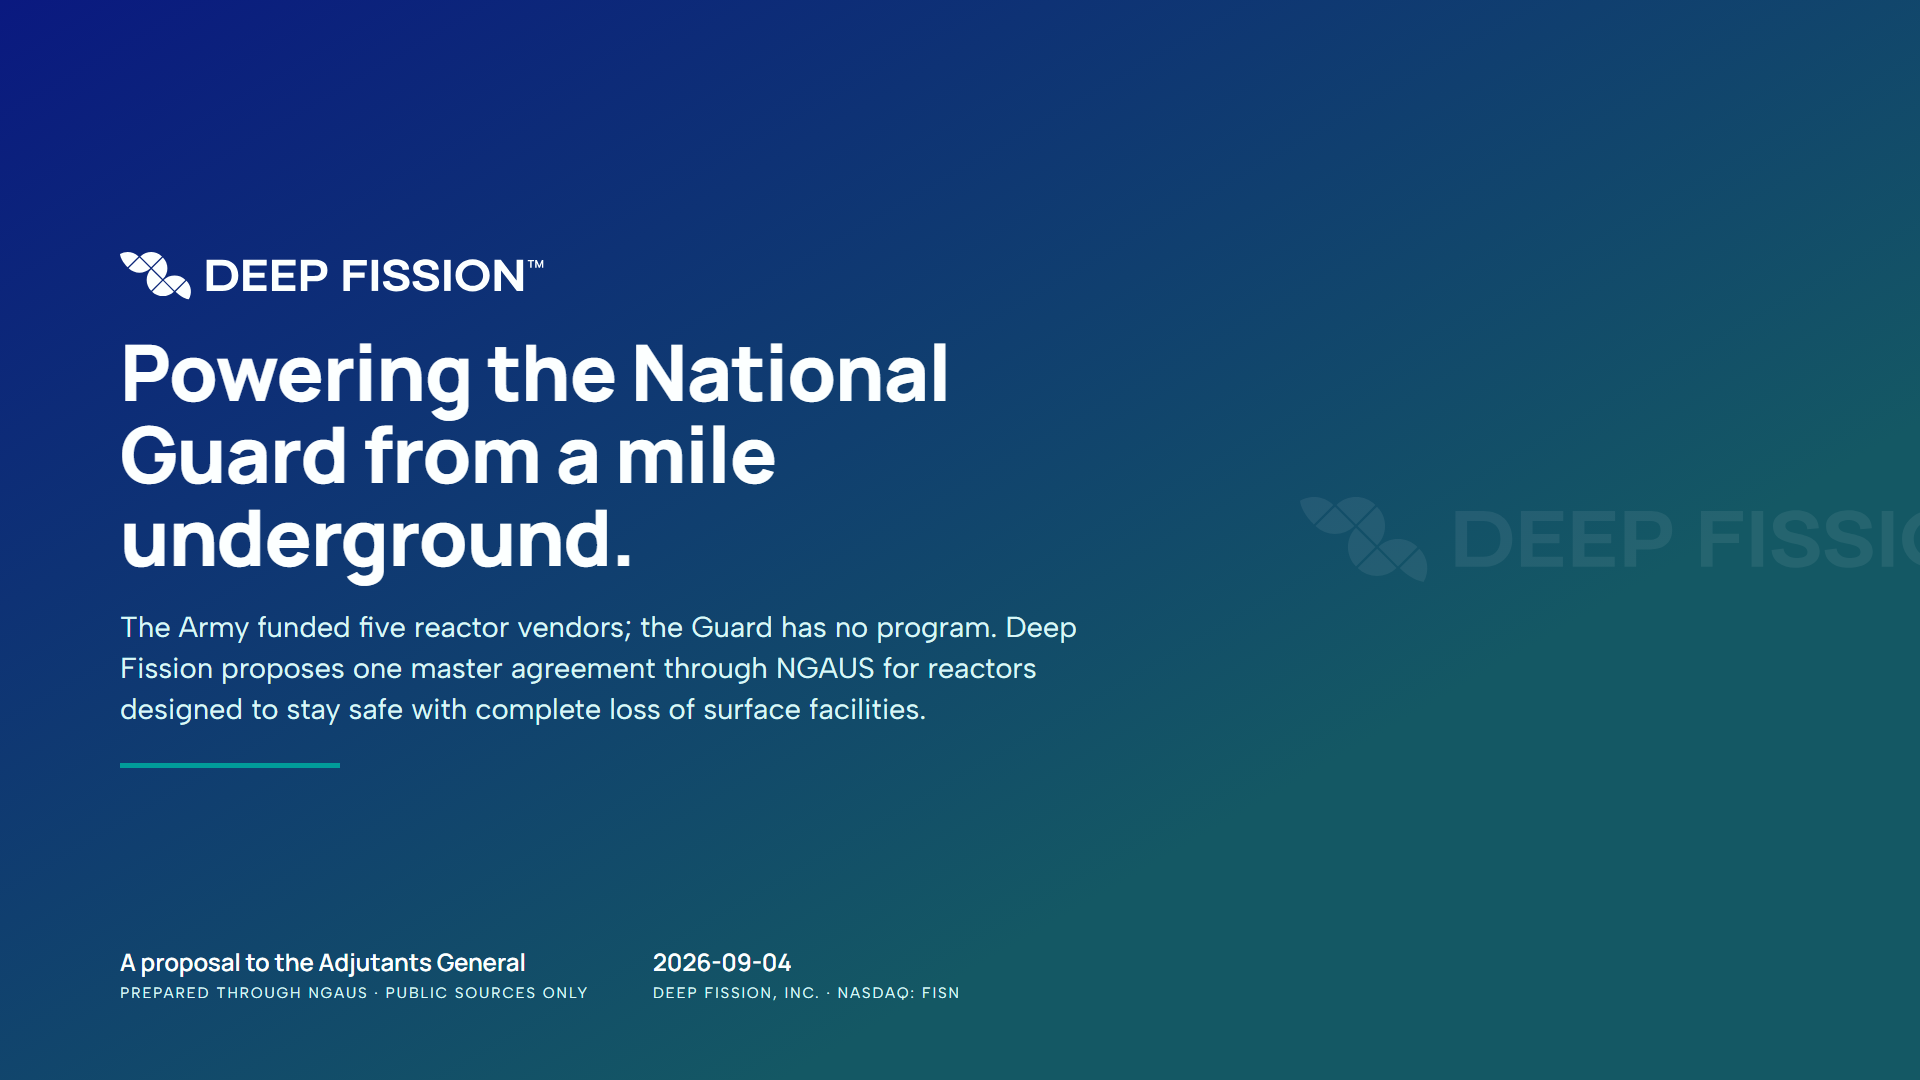
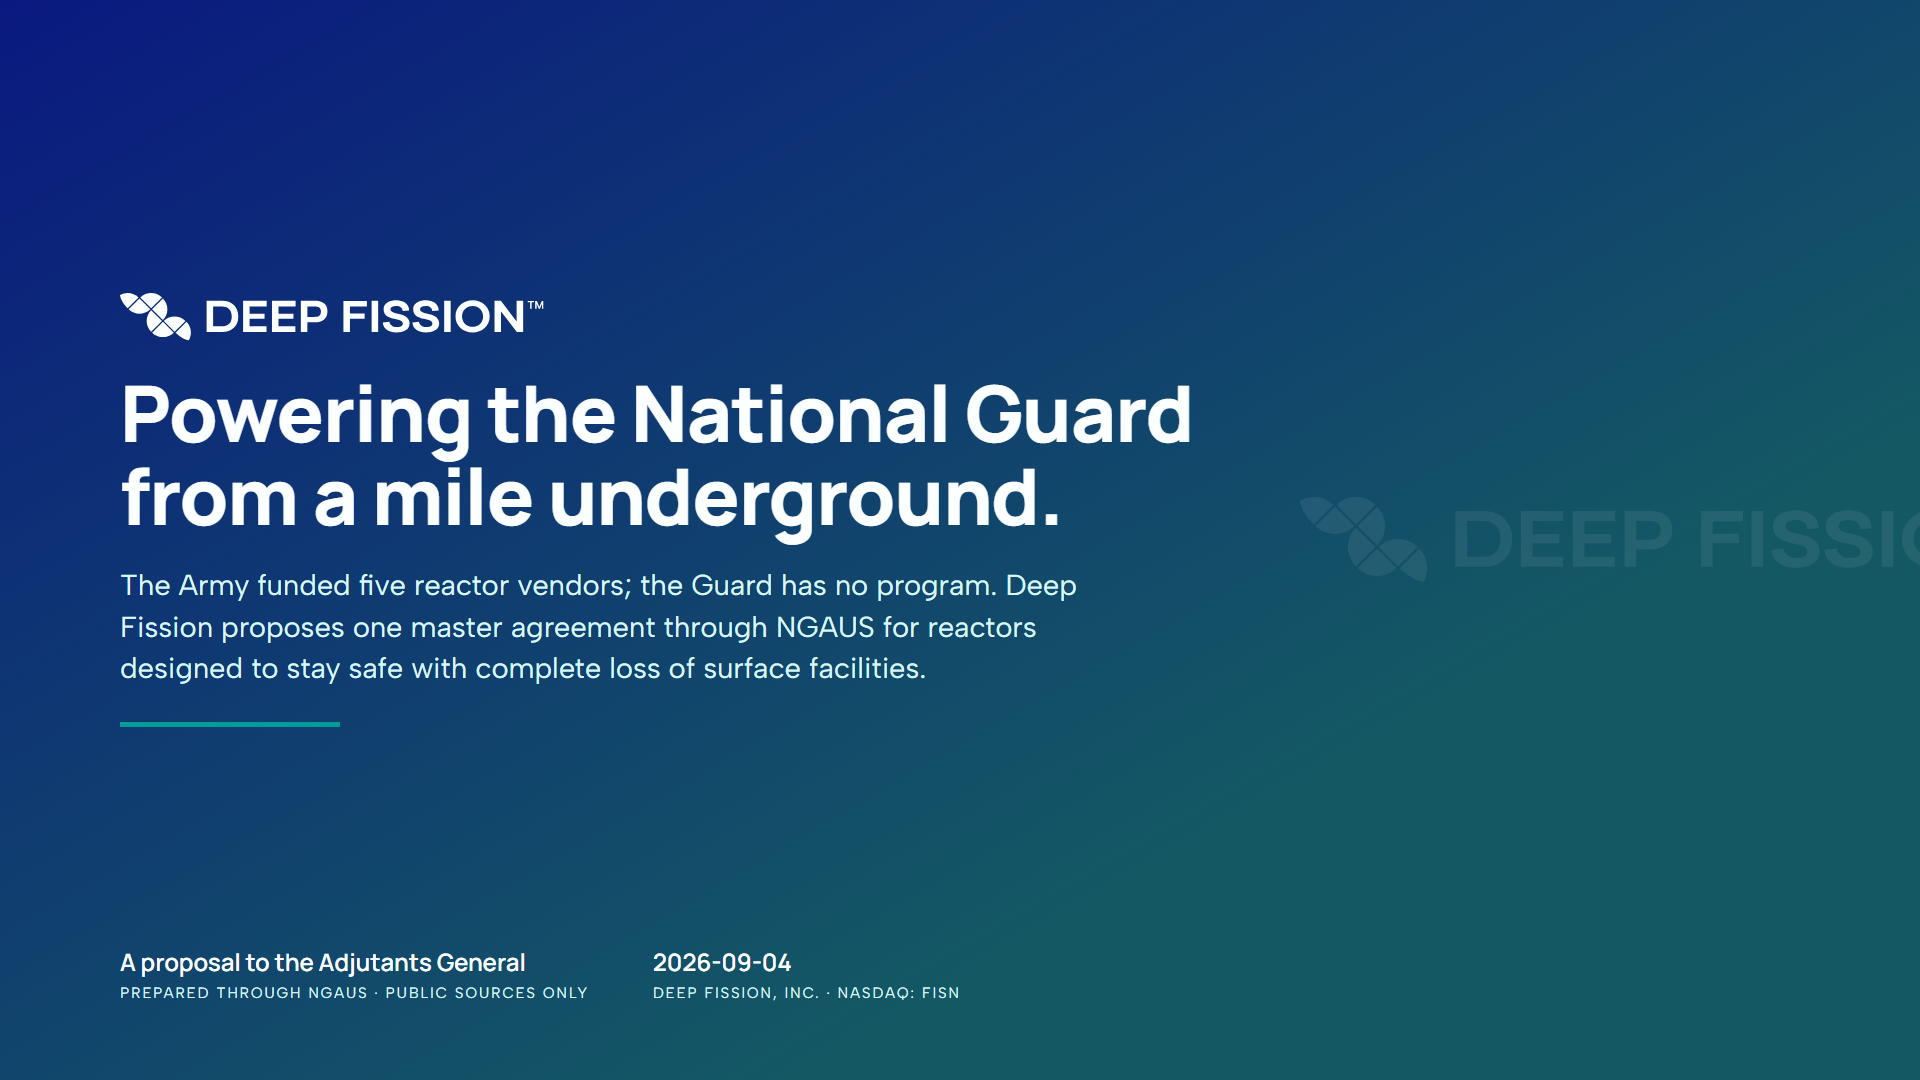
Cover: two-line headline

Changed region(s): [[0.0625, 0.2139, 0.625, 0.6722], [0.0625, 0.7028, 0.1875, 0.7333]]

diff --git a/cover.html b/cover.html
@@ -8,7 +8,7 @@ html,body{width:1920px;height:1080px;overflow:hidden;background:#0A1980}
 .stage{position:relative;width:1920px;height:1080px;background:linear-gradient(150deg,#0A1980 0%,#145864 70%);color:#FCFFFF;font-family:"Albert Sans",system-ui,sans-serif;overflow:hidden}
 .col{position:absolute;left:120px;top:0;height:1080px;width:1200px;display:flex;flex-direction:column;justify-content:center;padding-bottom:60px}
 .wm{width:424px;height:48px;display:block;color:#FCFFFF}
-h1{font-family:"Manrope",sans-serif;font-weight:800;font-size:78px;line-height:1.06;letter-spacing:-.012em;color:#FCFFFF;max-width:20ch;margin-top:30px}
+h1{font-family:"Manrope",sans-serif;font-weight:800;font-size:78px;line-height:1.06;letter-spacing:-.012em;color:#FCFFFF;max-width:24ch;margin-top:30px}
 .promise{font-size:29px;line-height:1.42;color:#DAF7F7;max-width:56ch;margin-top:28px;font-weight:400}
 .rule{height:5px;width:220px;background:#019C9A;margin-top:34px}
 .meta{position:absolute;left:120px;bottom:78px;display:flex;gap:64px}
